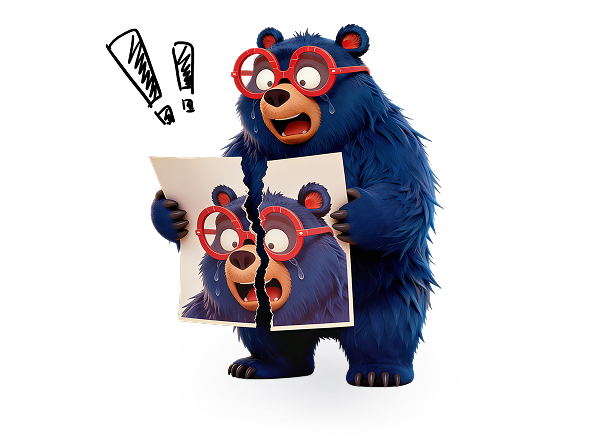
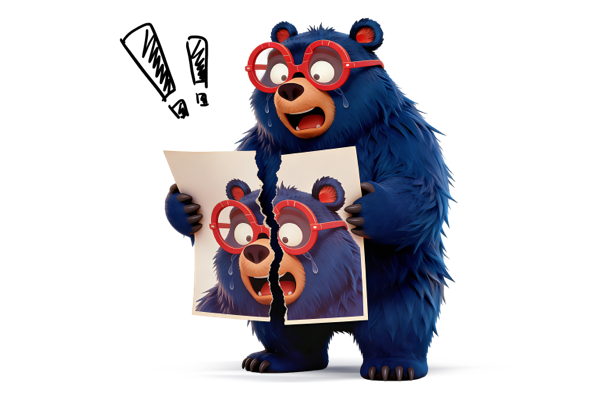
feat(web): static resource add error boundary

Changed region(s): [[0.24, 0.03, 0.78, 0.96], [0.18, 0.06, 0.36, 0.3]]

diff --git a/web/src/components/ErrorBoundary/index.tsx b/web/src/components/ErrorBoundary/index.tsx
@@ -16,13 +16,14 @@
  * @component
  */
 
-import { Component, type ErrorInfo, type ReactNode } from 'react';
-import { useLocation } from 'react-router-dom';
+import { Component, useEffect, type ErrorInfo, type ReactNode } from 'react';
+import { useLocation, useRouteError } from 'react-router-dom';
 import { Button, Flex } from 'antd';
 import { useTranslation } from 'react-i18next';
 
 import loadErrorIcon from '@/assets/images/empty/loadError.png';
 import Empty from '@/components/Empty';
+import { useStaticAssetError } from '@/hooks/useStaticAssetError';
 
 /** Detect dynamic import / chunk preload failures across browsers. */
 export function isChunkLoadError(error: unknown): boolean {
@@ -42,7 +43,7 @@ const ErrorFallback = ({ onReload }: { onReload: () => void }) => {
         url={loadErrorIcon}
         title={t('empty.loadError')}
         subTitle={t('empty.loadErrorDesc')}
-        size={[240, 210]}
+        size={[300, 200]}
       />
       <Button type="primary" className="rb:mt-4" onClick={onReload}>
         {t('empty.reload')}
@@ -61,7 +62,7 @@ interface ErrorBoundaryState {
   hasError: boolean;
 }
 
-class ErrorBoundary extends Component<ErrorBoundaryProps, ErrorBoundaryState> {
+export class ErrorBoundary extends Component<ErrorBoundaryProps, ErrorBoundaryState> {
   state: ErrorBoundaryState = { hasError: false };
 
   static getDerivedStateFromError(): ErrorBoundaryState {
@@ -93,11 +94,39 @@ class ErrorBoundary extends Component<ErrorBoundaryProps, ErrorBoundaryState> {
 
 /**
  * Wrapper that injects the current route path as the reset key, so switching to
- * a route whose resources load fine clears any previously caught error.
+ * a route whose resources load fine clears any previously caught error. It also
+ * watches for failed bundled static assets (logo, menu icons, etc.) — which the
+ * class boundary can't catch, since their `error` events never reach React — and
+ * renders the same fallback when one fails to load.
  */
 const RouteErrorBoundary = ({ children }: { children: ReactNode }) => {
   const { pathname } = useLocation();
+  const hasAssetError = useStaticAssetError(pathname);
+
+  if (hasAssetError) {
+    return <ErrorFallback onReload={() => window.location.reload()} />;
+  }
+
   return <ErrorBoundary resetKey={pathname}>{children}</ErrorBoundary>;
+};
+
+/**
+ * Error element for React Router data routers (`createHashRouter`).
+ *
+ * When a route `element` fails to render — most commonly a lazy-loaded layout
+ * or page chunk that can't be fetched after a redeploy — the data router
+ * intercepts the error itself; it never reaches a React error boundary, so
+ * without this it falls through to the router's default dev error screen. Wire
+ * this as the route `errorElement` to show our own fallback instead.
+ */
+export const RouteErrorElement = () => {
+  const error = useRouteError();
+
+  useEffect(() => {
+    console.error('Route error caught by errorElement:', error);
+  }, [error]);
+
+  return <ErrorFallback onReload={() => window.location.reload()} />;
 };
 
 export default RouteErrorBoundary;

diff --git a/web/src/hooks/useStaticAssetError.ts b/web/src/hooks/useStaticAssetError.ts
@@ -1,0 +1,58 @@
+import { useEffect, useState } from 'react';
+
+/**
+ * Decide whether a failed resource is one of our bundled static assets (logo,
+ * menu icons, images, css/js chunks). Only same-origin files under the build
+ * `assets` dir are treated as fatal, so a broken remote/user avatar won't blow
+ * the whole shell into the fallback. Mirrors the chunk-load rationale: hashed
+ * files removed after a redeploy can no longer be fetched.
+ */
+export function isStaticAssetError(target: EventTarget | null): boolean {
+  if (!(target instanceof HTMLElement)) return false;
+  const tag = target.tagName;
+  if (tag !== 'IMG' && tag !== 'SCRIPT' && tag !== 'LINK') return false;
+
+  const url =
+    (target as HTMLImageElement).src || (target as HTMLLinkElement).href || '';
+  if (!url) return false;
+
+  try {
+    const { origin, pathname } = new URL(url, window.location.href);
+    // Same-origin build output: `/assets/...` (prod) or `/src/assets/...` (dev).
+    return origin === window.location.origin && /\/assets\//.test(pathname);
+  } catch {
+    return false;
+  }
+}
+
+/**
+ * Watch for failed bundled static assets and report whether one has occurred.
+ *
+ * `error` events from <img>/<link>/<script> don't bubble and never reach
+ * React's error boundary, so we listen in the capture phase on `window`.
+ *
+ * @param resetKey When this value changes (e.g. route pathname), the caught
+ *   error is cleared so a route whose assets load fine renders normally.
+ * @returns `true` once a same-origin build asset has failed to load.
+ */
+export function useStaticAssetError(resetKey?: string): boolean {
+  const [hasAssetError, setHasAssetError] = useState(false);
+
+  useEffect(() => {
+    const handleResourceError = (event: Event) => {
+      if (isStaticAssetError(event.target)) {
+        console.error('Static asset load failure:', event.target);
+        setHasAssetError(true);
+      }
+    };
+    window.addEventListener('error', handleResourceError, true);
+    return () => window.removeEventListener('error', handleResourceError, true);
+  }, []);
+
+  // On route change, drop the error so a normally-loading page renders.
+  useEffect(() => {
+    setHasAssetError(false);
+  }, [resetKey]);
+
+  return hasAssetError;
+}

diff --git a/web/src/routes/index.tsx b/web/src/routes/index.tsx
@@ -18,10 +18,11 @@
  */
 
 import { lazy, type LazyExoticComponent, type ComponentType, type ReactNode } from 'react';
-import { createHashRouter, createRoutesFromElements, Route } from 'react-router-dom';
+import { createHashRouter, createRoutesFromElements, Outlet, Route } from 'react-router-dom';
 
 /** Import route configuration JSON */
 import routesConfig from './routes.json';
+import { RouteErrorElement } from '@/components/ErrorBoundary';
 
 /** Recursively collect all element names from routes */
 function collectElements(routes: RouteConfig[]): Set<string> {
@@ -157,7 +158,12 @@ const generateRoutes = (routes: RouteConfig[]): ReactNode => {
 /** Create hash router from route configuration */
 const router = createHashRouter(
   createRoutesFromElements(
-    generateRoutes(routesConfig)
+    // Pathless root route provides a data-router `errorElement`, so a route
+    // whose lazy chunk fails to load (e.g. a layout removed after a redeploy)
+    // renders our fallback instead of the router's default dev error screen.
+    <Route element={<Outlet />} errorElement={<RouteErrorElement />}>
+      {generateRoutes(routesConfig)}
+    </Route>
   )
 );
 
